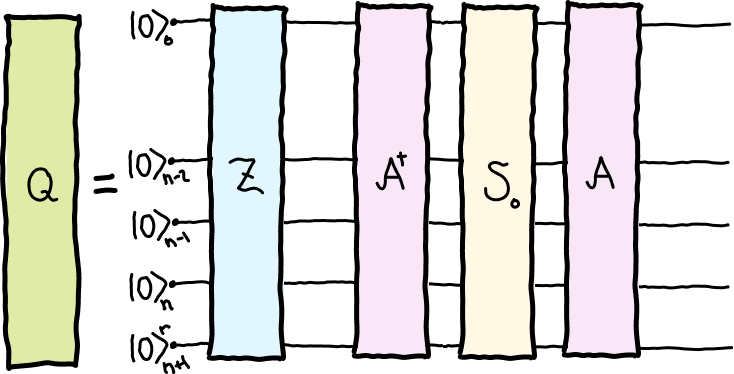
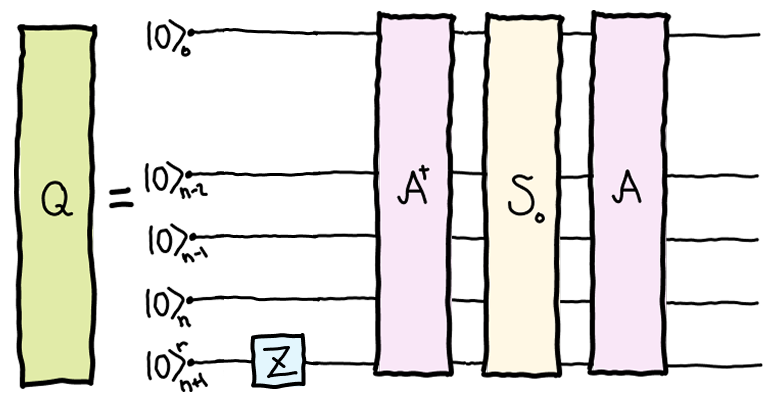
More reviews

Changed region(s): [[0.0, 0.0, 1.0, 1.0], [0.8392, 0.5294, 1.0, 0.8824], [0.8392, 0.1765, 0.8992, 0.2353]]

diff --git a/demonstrations_v2/iterative_quantum_amplitude_estimation_in_pennylane/demo.py b/demonstrations_v2/iterative_quantum_amplitude_estimation_in_pennylane/demo.py
@@ -2,15 +2,44 @@ r"""
 Iterative Quantum Amplitude Estimation
 ================================================================
 
-Classical search algorithms are expensive. If, for example, you want to find a specific element in a list of length N, basic techniques require individual guesses to be evaluated sequentially. The resources required to carry this out scale with the size of the string being queried, implying :math:`\mathcal{O}(N)` efficiency and reducing implementation feasibility. Though Monte Carlo methods can be employed to alleviate some of this demand, resource requirements still scale intensely with complexity. Since quantum computing, in theory, enables efficient parallel computation, its utility in search techniques is clear. `Grover's algorithm <https://pennylane.ai/qml/demos/tutorial_grovers_algorithm/>`_ demonstrated the possibility of circumventing the efficiency challenges of classical search techniques by taking advantage of quantum information processing methods to search a data set for a specific entry via signal interference, eliminating the need to "guess and check" and improving efficiency to :math:`\mathcal{O}(\sqrt{N})`. Efficient and justifiable implementation of Grover's algorithm, however, requires the number of solutions to be known and that the input state exists in an equally weighted superposition, limiting its applications. 
+Classical search algorithms are expensive. If, for example, you want to find a specific element in a list of length N, basic techniques require individual guesses to be evaluated sequentially. The resources required to carry this out scale with the size of the string being queried, implying :math:`\mathcal{O}(N)` cost and reducing implementation feasibility. Classical strategies to reduce the cost of searching are continually improved, but fundamental limitations in the system sizes and complexity that classical hardware an handle will always need to be considered. Since quantum computing, in theory, enables efficient parallel computation, its utility in search techniques is clear. `Grover's algorithm <https://pennylane.ai/qml/demos/tutorial_grovers_algorithm/>`_ demonstrated the possibility of circumventing the efficiency challenges of classical search techniques by taking advantage of quantum information processing methods, improving requirements to :math:`\mathcal{O}(\sqrt{N})`.
 
-In 2000, the quantum amplitude estimation (QAE) algorithm was put forward as a generalization of Grover's algorithm that seeks to estimate the probability that a certain state exists within a data set, if at all [#Brassard2000]_. In this generalization, a superposition state with uneven probabilities is operated on by the Grover operator :math:`2^n` times, where :math:`n` is the size of the evaluation register. The rotation and amplification induced by the Grover operator should, in theory, encode an amplitude in an evaluation register indicating the concentration of "good" states (a common term used to refer to the states that meet the success criteria of the search) in a data set, which is obtained through quantum processing via `quantum Fourier transform (QFT) <https://pennylane.ai/qml/demos/tutorial_qft/>`_ to carry out `quantum phase estimation (QPE) <https://pennylane.ai/qml/demos/tutorial_qp/>`_.
+In 2000, the quantum amplitude estimation (QAE) algorithm was put forward as a generalization of Grover's algorithm that seeks to estimate the probability that a certain state exists within a data set, if at all [#Brassard2000]_. In this generalization, a superposition state operated on by the Grover operator :math:`2^n` times, where :math:`n` is the size of the evaluation register. The rotation and amplification induced by the Grover operator should, in theory, encode an amplitude in an evaluation register indicating the concentration of "good" states (a common term used to refer to the states that meet the success criteria of the search) in a data set, which is obtained through quantum processing via `quantum Fourier transform (QFT) <https://pennylane.ai/qml/demos/tutorial_qft/>`_ to carry out `quantum phase estimation (QPE) <https://pennylane.ai/qml/demos/tutorial_qpe/>`_.
 
-Though QAE is a major improvement on its predecessors, its reliance on QPE limits its practicality. To execute the required QFT, a large set of qubits (whose size depends on the desired precision) must be dedicated to the evaluation register that stores the information introduced by the Grover operator. This causes the required hardware width and depth to increase very quickly beyond current practicality. If we want to, therefore, employ QAE using near-term hardware, we need to find a way to take advantage of the benefits of a quantum search algorithm and extract meaningful results without performing the QPE measurements. 
+Though QAE is a major improvement on its predecessors, its reliance on QPE limits its practicality. To execute the required QFT, a large set of qubits (whose size depends on the desired precision) must be dedicated to the evaluation register that stores the information introduced by the Grover operator. This causes the required hardware width and depth to increase very quickly beyond current practicality. If we want to, therefore, employ QAE using near-term hardware, we need to find a way to execute the general protocol and extract meaningful results without depending on QPE. 
 
-In [#Grinko2021]_, an alternative is proposed: Iterative Quantum Amplitude Estimation (IQAE). In essence, IQAE is a quantum-classical hybrid algorithm that executes the Grover operator :math:`k` times with the goal of extracting an amplitude that corresponds to the probability of measuring a type of entry in a data set. The value of :math:`k` is determined and applied iteratively, hence the name, via classical methods. So, where QAE attempts to find the solution in one shot by interfering all elements of the input superposition state after the Grover operator has been applied and prior to measurement, IQAE measures sequentially directly after the application of the Grover operator to gather information and "zoom in" on the range the solution may exist in. Since no QPE is taking place, we no longer require the full evaluation register and, therefore, can reduce the width of the required circuitry into a range that is feasible for near-term hardware.
+In [#Grinko2021]_, an alternative is proposed: Iterative Quantum Amplitude Estimation (IQAE). In essence, IQAE is a quantum-classical hybrid algorithm that breaks down the very deep, very wide circuit approach used in QAE into a series of simpler circuits that execute the Grover operator :math:`k` times sequentially, with the value of :math:`k` changing via classical optimization in each sequential circuit to iteratively "zoom in" on the solution. So, rather than trying to take a single-shot approach that requires resources to be allocated to auxillary registers and controlled applications of the Grover operator, IQAE carries out several oscillations between classical optimizations of :math:`k` and quantum circuit execution and measurement, using the outcome of each quantum iteration to inform the classical step. This drastically reduces the resources required to carry out the procedure, making implementation much more feasible on available hardware.
 
 The goal of this demo is to introduce the IQAE algorithm and implement a simple example using PennyLane.
+
+Initial State
+-------------
+
+IQAE, like QAE, is specifically focused on analyzing data sets composed of "good" and "bad" states that appear with unequal probability. In order to make this state searchable, each component must be assigned a marker that indicates which of the two categories it falls in. Taking :math:`|0\rangle` to be a "bad" marker and :math:`|1\rangle` to be a "good" marker following Boolean logic, the general IQAE state can be defined as
+
+.. math::
+   |\Psi_{IQAE}\rangle = \sqrt{1-a}|\psi_0\rangle|0\rangle+\sqrt{a}|\psi_1\rangle|1\rangle
+
+Where :math:`a` is the probability of measuring a "good" state, :math:`|\psi_0\rangle` is a "bad" state, and :math:`|\psi_1\rangle` is a "good" state.
+
+In this implementation, the goal of the IQAE algorithm will be to identify the probability that a given entry in a data set is a multiple of 8. When encoded in binary, multiples of 8 will always have 0 in the last three positions, which serves as a simple success criterion for the algorithm (i.e. a "good" state will always have 0s in the 3 least significant positions). 
+
+To carry this search out, we will define an operator :math:`\mathcal{A}` that maps a set of input qubits onto the problem, meaning the structure of :math:`\mathcal{A}` will differ depending on the application. :math:`\mathcal{A}` should impose a unitary operation on the input states that invokes a superposition state that is identical to :math:`|\Psi_{IQAE}\rangle`. In this case, a randomly weighted superposition of all combinations of the input qubits should be generated and the final 3 qubits in each string should be checked for adherence to the success criteria (i.e. are they all zero?) via a multi-controlled CNOT gate. If the logic gate is triggered, a single-qubit evaluation register will be flipped to :math:`|1\rangle`, indicating a "good" result. However, the goal will not be to identify all "good" results in one sweep. Instead, several iterations will be carried out in which the Grover operator is applied :math:`k` times with the goal of extracting a probability amplitude with adequate accuracy by refining the interval within which the solution is likely to lie. To do this, each iteration of the IQAE algorithm will yield the following state:
+
+.. math::
+   \mathcal{Q}^k\mathcal{A}|0\rangle_n|0\rangle_{eval} = \cos((2k+1)\theta_a)|\psi_0\rangle_n|0\rangle_{eval}+\sin((2k+1)\theta_a)|\psi_1\rangle_n|1\rangle_{eval}
+
+Where :math:`n` is the number of qubits, :math:`\mathcal{Q}` is the Grover operator, :math:`\theta_a` is related to the angle that the state is rotated by Grover's operator (note :math:`a=sin^2(\theta_a)`), and :math:`k` is the number of times that the Grover operator is applied to the state in a single IQAE iteration. The specifications of this equation are covered thoroughly in [#Brassard2000]_, but the important result is that the probability of measuring a "good" state at the end of an iteration is given by:
+
+.. math::
+   \mathbb{P}(|1\rangle)=\sin^2((2k+1)\theta_a)
+
+From this, it is clear that the probability is correlated to the angle imposed by the Grover operator. This relationship can be made clearer by taking into consideration the fact that :math:`\mathcal{Q}` invokes a :math:`2\theta_a` rotation in a 2D space defined by the "good" and "bad" state axes each time it is applied. So, if we can figure out the angle that has been imposed on the state as a result of the operator application, we can obtain the probability of extracting a "good" state. Since we do not aspire to use QPE, our best bet is to use our iterative :math:`k` value combined with an measurement of the quantum circuit that outputs an intermediate amplitude guess. The above equation also shows that the size of :math:`k` determines the resolution of the search, with a large :math:`k` corresponding to a high probability oscillation frequency and, therefore, a high resolution. If the frequency becomes too high, however, the measurement outcomes can become ambiguous, once again justifying the iterative approach to ensure an ideal :math:`k` value is found using sequential information collected from the system [#Grinko2021]_.
+
+Defining The Input State and Operators
+--------------------------------------
+
+First, we can define the circuit specifications. For this toy example, we will generate a random list of probabilities that will be assigned as weights in the input state.
 """
 
 import pennylane as qp
@@ -19,41 +48,13 @@ import matplotlib.pyplot as plt
 import math
 import jax.numpy as jnp
 import time
+
 import catalyst
 from catalyst import for_loop
-######################################################################
-# Initial State
-# -------------
-#
-# IQAE, like QAE, is specifically focused on analyzing data sets composed of "good" and "bad" states that appear with unequal probability. In order to make this state searchable, each component must be assigned a marker that indicates which of the two categories it falls in. Taking :math:`|0\rangle` to be a "bad" marker and :math:`|1\rangle` to be a "good" marker following Boolean logic, the general IQAE state can be defined as
-#
-# .. math::
-#    |\Psi_{IQAE}\rangle = \sqrt{1-a}|\psi_0\rangle|0\rangle+\sqrt{a}|\psi_1\rangle|1\rangle
-#
-# Where :math:`a` is the probability of measuring a "good" state, :math:`|\psi_0\rangle` is a "bad" state, and :math:`|\psi_1\rangle` is a "good" state.
-#
-# In this implementation, the goal of the IQAE algorithm will be to identify the probability that a given entry in a data set is a multiple of 8. When encoded in binary, multiples of 8 will always have 0 in the last three positions, which serves as a simple success criterion for the algorithm (i.e. a "good" state will always have 0s in the 3 least significant positions). 
-#
-# To carry this search out, we will define an operator :math:`\mathcal{A}` that maps a set of input qubits onto the problem, meaning the structure of :math:`\mathcal{A}` will differ depending on the application. :math:`\mathcal{A}` should impose a unitary operation on the input states that invokes a superposition state that is identical to :math:`|\Psi_{IQAE}\rangle`. In this case, a randomly weighted superposition of all combinations of the input qubits should be generated and the final 3 qubits in each string should be checked for adherence to the success criteria (i.e. are they all zero?) via a multi-controlled CNOT gate. If the logic gate is triggered, a single-qubit evaluation register will be flipped to :math:`|1\rangle`, indicating a "good" result. However, the goal will not be to identify all "good" results in one sweep. Instead, several iterations will be carried out in which the Grover operator is applied multiple times with the goal of extracting a probability amplitude with adequate accuracy by refining the interval within which the solution is likely to lie. To do this, each iteration of the IQAE algorithm will yield the following state:
-#
-# .. math::
-#    \mathcal{Q}^k\mathcal{A}|0\rangle_n|0\rangle_{eval} = \cos((2k+1)\theta_a)|\psi_0\rangle_n|0\rangle_{eval}+\sin((2k+1)\theta_a)|\psi_1\rangle_n|1\rangle_{eval}
-#
-# Where :math:`n` is the number of qubits, :math:`\mathcal{Q}` is the Grover operator, :math:`\theta_a` is related to the angle that the state is rotated by Grover's operator (note :math:`a=sin^2(\theta_a)`), and :math:`k` is the number of times that the Grover operator is applied to the state in a single IQAE iteration. The specifications of this equation are covered thoroughly in [#Brassard2000]_, but the important result is that the probability of measuring a "good" state at the end of an iteration is given by:
-#
-# .. math::
-#    \mathbb{P}(|1\rangle)=\sin^2((2k+1)\theta_a)
-#
-# From this, it is clear that the probability is correlated to the angle imposed by the Grover operator. This relationship can be made clearer by taking into consideration the fact that :math:`\mathcal{Q}` invokes a :math:`2\theta_a` rotation in a 2D space defined by the "good" and "bad" state axes each time it is applied. So, if we can figure out the angle that has been imposed on the state as a result of the operator application, we can obtain the probability of extracting a "good" state. Since we do not aspire to use QPE, our best bet is to use our iterative :math:`k` value combined with an measurement of the quantum circuit that outputs an intermediate amplitude guess. The above equation also shows that the size of :math:`k` determines the resolution of the search, with a large :math:`k` corresponding to a high probability oscillation frequency and, therefore, a high resolution. Thus, if an adequately sized :math:`k` is identified, a high accuracy estimation for the "good" state amplitude can be calculated [#Grinko2021]_.
-#
-# Defining The Input State and Operators
-# --------------------------------------
-#
-# First, we can define the circuit specifications, generating a random list of probabilities that will be assigned as weights in the input state.
 
 #Define system parameters
 N = 10000 #Number of shots
-num_qubits = 5
+num_qubits = 3
 n = 2**num_qubits #Number of possible states
 
 #Generate a random list of probabilities to be assigned to the initial state
@@ -61,21 +62,21 @@ random_vector = np.sqrt(np.random.rand(n))
 distribution = random_vector/np.linalg.norm(random_vector)
 
 #Define which indices should be checked for success criteria
-control_wires = [num_qubits-3,num_qubits-2,num_qubits-1,num_qubits]
+MCX_wires = [num_qubits-3,num_qubits-2,num_qubits-1,num_qubits]
 
 ###############################################################################
-# As mentioned, the backbone of the quantum portion of the IQAE algorithm is the Grover operator :math:`\mathcal{Q}`, which aims to identify "good" states and introduce an identifiable phase flip and `amplitude amplification <https://pennylane.ai/qml/demos/tutorial_intro_amplitude_amplification/>`_. The basic structure of :math:`\mathcal{Q}` is 
+# As mentioned, the backbone of the quantum portion of the IQAE algorithm is the Grover operator :math:`\mathcal{Q}`, which aims to identify "good" states and introduce an identifiable phase flip and amplitude amplification. The basic structure of :math:`\mathcal{Q}` is 
 #
 # .. math::
 #    \mathcal{Q}=-\mathcal{A}\mathcal{S}_0\mathcal{A}^{-1}\mathcal{S}_{\psi_1}
 #
-# In which :math:`\mathcal{S}_{\psi_1}` acts as the oracle and flips the phase of (marks) a "good" state and :math:`\mathcal{S}_0` flips everything except the :math:`|0\rangle` state (see figures 1 through 3 in the `amplitude amplification <https://pennylane.ai/qml/demos/tutorial_intro_amplitude_amplification/>`_ demo for an intuitive visualization). Since this is an uneven superposition, this operator that carries out this process needs to be defined rather than using PennyLane's built in GroverOperator() function, which assumes an even superposition. 
+# In which :math:`\mathcal{S}_{\psi_1}` acts as the oracle and flips the phase of (marks) a "good" state and :math:`\mathcal{S}_0` flips everything except the :math:`|0\rangle` state (see figures 1 through 3 in the `amplitude amplification <https://pennylane.ai/qml/demos/tutorial_intro_amplitude_amplification/>`_ demo for an intuitive visualization). Since this is an uneven superposition, the operator that facilitates this process needs to be defined rather than using PennyLane's built in GroverOperator() function, which assumes an even superposition. 
 #
 # First, :math:`\mathcal{A}` can be defined according to the following procedure: 
 #
 # 1. Generate :math:`n` qubits with amplitudes according to the previously generated random probability distribution using StatePrep.
 # 2. Flip the state of the 3 final qubits in the string so that MultiControlledX() is triggered by a :math:`|111\rangle` state.
-# 3. Implement MultiControlledX such that wire :math:`n+1` takes on the :math:`|1\rangle` state if the success criteria is met.
+# 3. Implement MultiControlledX() such that wire :math:`n+1` takes on the :math:`|1\rangle` state if the success criteria is met.
 # 4. Flip the state of the 3 final qubits back to the original. 
 #
 # .. figure:: ../demonstrations_v2/iterative_quantum_amplitude_estimation_in_pennylane/A_Operator.png
@@ -88,12 +89,12 @@ control_wires = [num_qubits-3,num_qubits-2,num_qubits-1,num_qubits]
 def A(state):
   qp.StatePrep(state,wires=range(num_qubits)) #Randomly weighted superposition
 
-  #Flip monitored qubits so MCX is triggered by |111>
+  #Flip monitored qubits to so that MCX is triggered by |111>
   qp.PauliX(wires=num_qubits-3)
   qp.PauliX(wires=num_qubits-2)
   qp.PauliX(wires=num_qubits-1)
 
-  qp.MultiControlledX(control_wires) #State is marked with |1> iff number is a multiple of 8
+  qp.MultiControlledX(MCX_wires) #State is marked with |1> iff number is a multiple of 8
 
   #Flip back monitored bits to original state
   qp.PauliX(wires=num_qubits-3)
@@ -101,67 +102,55 @@ def A(state):
   qp.PauliX(wires=num_qubits-1)
 
 ##############################################################################
-# Since the "good" state is marked by a :math:`|1\rangle`, the :math:`\mathcal{S}_{\psi_1}` operator (also known as the oracle) can be constructed simply using a PauliZ gate, which will flip the phase of any state that has this marker and allow any state marked by :math:`|0\rangle` to pass unchanged. The :math:`\mathcal{S}_0` operator is analogous to a simple FlipSign() operation defined to act on the :math:`|0\rangle` state. When defining the operator, the global phase term can be neglected since it does not impact the final measurement.
+# Since the "good" state is marked by a :math:`|1\rangle`, the :math:`\mathcal{S}_{\psi_1}` operator (also known as the oracle) can be constructed simply using a PauliZ() gate, which will flip the phase of any state that has this marker and allow any state marked by :math:`|0\rangle` to pass unchanged. The :math:`\mathcal{S}_0` operator is analogous to a simple FlipSign() operation defined to act on the :math:`|0\rangle` state. When defining the operator, the global phase term can be neglected since it does not impact the final measurement.
 #
 # .. figure:: ../demonstrations_v2/iterative_quantum_amplitude_estimation_in_pennylane/Q_Operator.png
 #    :align: center
 #    :width: 80%
 #
-
-#Phase flip oracle
[email redacted]
-def Oracle():
-  qp.PauliZ(wires=num_qubits)
-
-dev = qp.device("lightning.qubit", wires=num_qubits+1)
-
-#Build the circuit using the Grover operator form Q=AS0A*Spsi
[email redacted]
-
-def Q():
-  Oracle()
-  qp.adjoint(A(distribution))
-  qp.FlipSign(0,wires=range(num_qubits))
-  A(distribution)
-
-##############################################################################
 # These operators can be used to build the final, iterative circuit in which the number of Grover operator applications will vary.
 #
 # .. figure:: ../demonstrations_v2/iterative_quantum_amplitude_estimation_in_pennylane/Final_Circuit_Drawing.png
 #    :align: center
 #    :width: 80%
 #
-# Due to the repeated applications of the Grover operator (which, as will be explored soon, grows quickly between iterations) and the exponential scale of the input state with number of qubits, the computational demand of this algorithm can become quickly unmanagable. To mitigate this, the `PennyLane Catalyst <https://pennylane.ai/blog/2023/03/introducing-catalyst-quantum-just-in-time-compilation>`_ can be used to compile the :math:`\mathcal{Q}` loop and reduce the demand. For small systems (like, for example, a 5 qubit example), the difference is neglegible but becomes more apparent as the system grows.
+# Due to the repeated applications of the Grover operator (which, as will be explored soon, grows quickly between iterations) and the exponential scale of the input state with number of qubits, the computational demand of this algorithm can become quickly unmanagable. To mitigate this, `PennyLane's Catalyst compiler <https://pennylane.ai/blog/2023/03/introducing-catalyst-quantum-just-in-time-compilation>`_ can be used to compile the :math:`\mathcal{Q}` loop and reduce the demand. For small systems (like, for example, a 5 qubit example), the difference is neglegible but becomes more apparent as the system grows.
 
-k_i = 0 #Begin with no Grover iterations
+k_i = 0
+
 #Declare if Catalyst compiler should be used
 catalyst_bool = True
 
 #Build the circuit Q^kA|0>n|0>
 def circuit_builder(catalyst_bool):
-  @qp.qnode(dev, shots=N)
-  def circuit(state, k_i):
-    A(state)
-    k_int = jnp.int64(k_i)
-    #Implement circuit in JAX compatible format for Catalyst
-    if catalyst_bool:
+  if catalyst_bool:
+    @qp.qnode(dev, shots=N)
+    def circuit(state, k_i):
+      A(state)
+      k_int = jnp.int64(k_i)
       @catalyst.for_loop(0, k_int, 1)
       def apply_Q(k_int):
-        # Oracle: phase flip on marked state
+        #Build the circuit using the Grover operator form Q=AS0A*Spsi
         qp.PauliZ(wires=num_qubits)
         qp.adjoint(A(state))
         qp.FlipSign(0, wires=range(num_qubits + 1))
         A(state)
       apply_Q()
-    #Carry out Python loop without Catalyst
-    else:
-      for i in range(int(k_i)):
-        Q(i)
-    return qp.probs(wires=[num_qubits]) #Return the probability of measuring "good" and "bad" state
-  
-  if catalyst_bool:
+      return qp.probs(wires=[num_qubits])
     circuit = catalyst.qjit(circuit)
-  
+
+  else:
+    @qp.qnode(dev, shots=N, interface=None)
+    def circuit(state, k_i):
+      A(state)
+      for i in range(int(k_i)):
+        #Build the circuit using the Grover operator form Q=AS0A*Spsi
+        qp.PauliZ(wires=num_qubits)
+        qp.adjoint(A(state))
+        qp.FlipSign(0, wires=range(num_qubits + 1))
+        A(state)
+      return qp.probs(wires=[num_qubits])
+
   return circuit
 
 circuit = circuit_builder(catalyst_bool)
@@ -229,7 +218,7 @@ def FindNextK(k_i,theta_min, theta_max, HalfPlane_bool):
 
       else:
         K-=4 #Decrease guess if the range spans two halves
-    return (k_i,HalfPlane_Bool)
+    return (k_i,HalfPlane_bool)
 
 ##############################################################################
 # Implementing the IQAE Algorithm
@@ -266,14 +255,14 @@ def FindNextK(k_i,theta_min, theta_max, HalfPlane_bool):
 #Define IQAE parameters
 eps = 0.0001 #Precision
 alpha = 0.01 #Confidence
-HalfPlane_Bool = True
+HalfPlane_Bool = False
 
 #Actually implement IQAE!
 #Pre-selecting the use of Chernoff-Hoeffding to determine confidence interval
 def IQAE(eps, alpha, N):
   k_current = 0
   theta_lower = 0
-  theta_upper = math.pi/2 #Beginning search in the upper quadrant - this differs from the paper, is this correct?
+  theta_upper = math.pi/2 #Begin search in the first quadrant
   HalfPlane_Bool = True
   T = math.ceil(math.log2(math.pi/(8*eps)))
 
@@ -313,7 +302,7 @@ def IQAE(eps, alpha, N):
   return a_lower, a_upper
 
 ##############################################################################
-# Upon calling IQAE(), the output will consist of the upper and lower bounds between which the true amplitude lies. Since the probability distribution in this example is random, the outcome will change between runs of the full script. To compare the confidence interval obtained by the IQAE algorithm, the :math:`\mathcal{A}` state can be measured in a single shot, though this is not a realistic analogy to a physical system and is used here only for comparison. 
+# Upon calling IQAE(), the output will consist of the upper and lower bounds between which the true amplitude lies. To compare the confidence interval obtained by the IQAE algorithm, the :math:`\mathcal{A}` state can be taken as the analytic probability yeilded by the simulator, though this is not a realistic analogy to a physical system and is used here only for comparison. 
 #
 
 dev_exact = qp.device("default.qubit", wires=num_qubits+1)